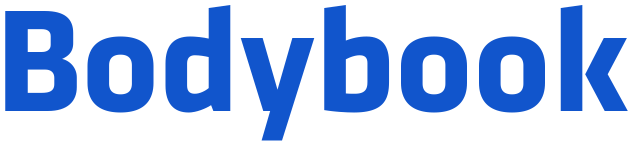
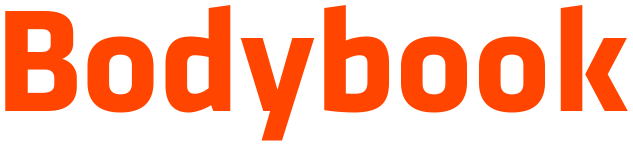
last edit

diff --git a/css/indexcss.css b/css/indexcss.css
@@ -1,0 +1,104 @@
+body{
+    margin: 0;
+    padding: 0;
+    background: white;
+    font-family: Arial, Helvetica, sans-serif;
+
+}
+#main{
+    display: flex;
+    justify-content: center;
+    align-items: center;
+    width: 100%;
+    height: 100vh;
+
+}
+#logo{
+    width: 500px;
+
+}
+#logo img{
+    width: 250px;
+    margin-bottom: -20px;
+}
+#logo p{
+    color: black;
+    font-size: 26px;
+    font-weight: normal;
+    line-height: 32px;
+}
+.box{
+    width: 350px;
+    padding: 15px;
+    text-align: center;
+    border-radius: 5px;
+    background: white;
+    margin-left: 60px;
+    box-shadow: 0px 2px 10px 1px gray;
+}
+.box input{
+    width: 100%;
+    margin-bottom: 15px;
+    padding: 15px;
+    font-size: 18px;
+    box-sizing: border-box;
+    border: 1px solid rgb(199, 193, 193);
+    border-radius: 5px;
+    outline: none;
+}
+
+.box input:focus{
+    box-shadow: 0px 0px 1px 1px orangered ;
+}
+ 
+.box button{
+    width: 100%;
+    margin-bottom: 15px;
+    color: white;
+    font-size: 20px;
+    font-weight: 600;
+    border-radius: 5px;
+    border: none;
+    padding: 13px 0;
+    cursor: pointer;
+    background: #ff4500;
+}
+.box  button:hover{
+    background-color: #ff4400b0;
+}
+
+.box a{
+    color: #ff4500;
+    font-size: 14px;
+    text-decoration: none;
+    margin-top: 5px;
+    margin-bottom: 20px;
+    display: block;
+    
+}
+
+.box a:hover{
+    text-decoration: underline;
+}
+
+.box hr{
+    border: 1px solid whitesmoke;
+    margin-bottom: 15px;
+
+}
+
+.box .cna a{
+    color: rgb(255, 255, 255);
+    font-size: 16px;
+    text-decoration: none;
+    padding: 15px 20px;
+    border-radius: 5px;
+    background: #249ea0 ;
+    font-weight: normal;
+    display: inline-block ;
+    margin-bottom: 5px;
+
+}
+.box .cna a:hover{
+    background-color: #249ea0af;
+}

diff --git a/html/index.html b/html/index.html
@@ -3,38 +3,30 @@
 <head>
     <meta charset="UTF-8">
     <meta name="viewport" content="width=device-width, initial-scale=1.0">
-    <title>login page</title>
+    <title>Bodybook-log in or sign up</title>
+
+
+<link rel="stylesheet" href="../css/indexcss.css">
 </head>
 <body>
-   <div>
+   <div id="main">
     <div id="logo">
-        <img src="../image/fontbolt.png" alt="">
-
-    </div>
-    <div id="line">
+        <img src="../image/fontbolt.png" alt="bodybook" >
         <p>Bodybook helps you connect and share with the people in your life.</p>
-        
     </div>
-    <div id="input">
-        <input type="email" id="" placeholder="Enter email id">
-        <br>
-        <br>
-        <input type="password" id="" placeholder="Enter Password">
-        <br>
-        <button><a href="">login</a></button>
-
+    <div class="box">
+        <form action="#">
+            <input type="email"  placeholder="Enter email id">
+            <input type="password"  placeholder="Enter Password">
+            <button type="submit">Log In</button>
+            <a href="">forgot password?</a>
+        </form>
+   <hr>
+   <div class="cna">
+    <a href="">Create new account</a>
+ </div>
     </div>
-    <div id="fp">
-        <a href="">forgot password?</a>
-
-    </div>
-    <div id="cna">
-        <button><a href="">Create new account</a></button>
-
-    </div>
-<footer>
-    create by rajkumar
-</footer>
+   
 
    </div>
     
